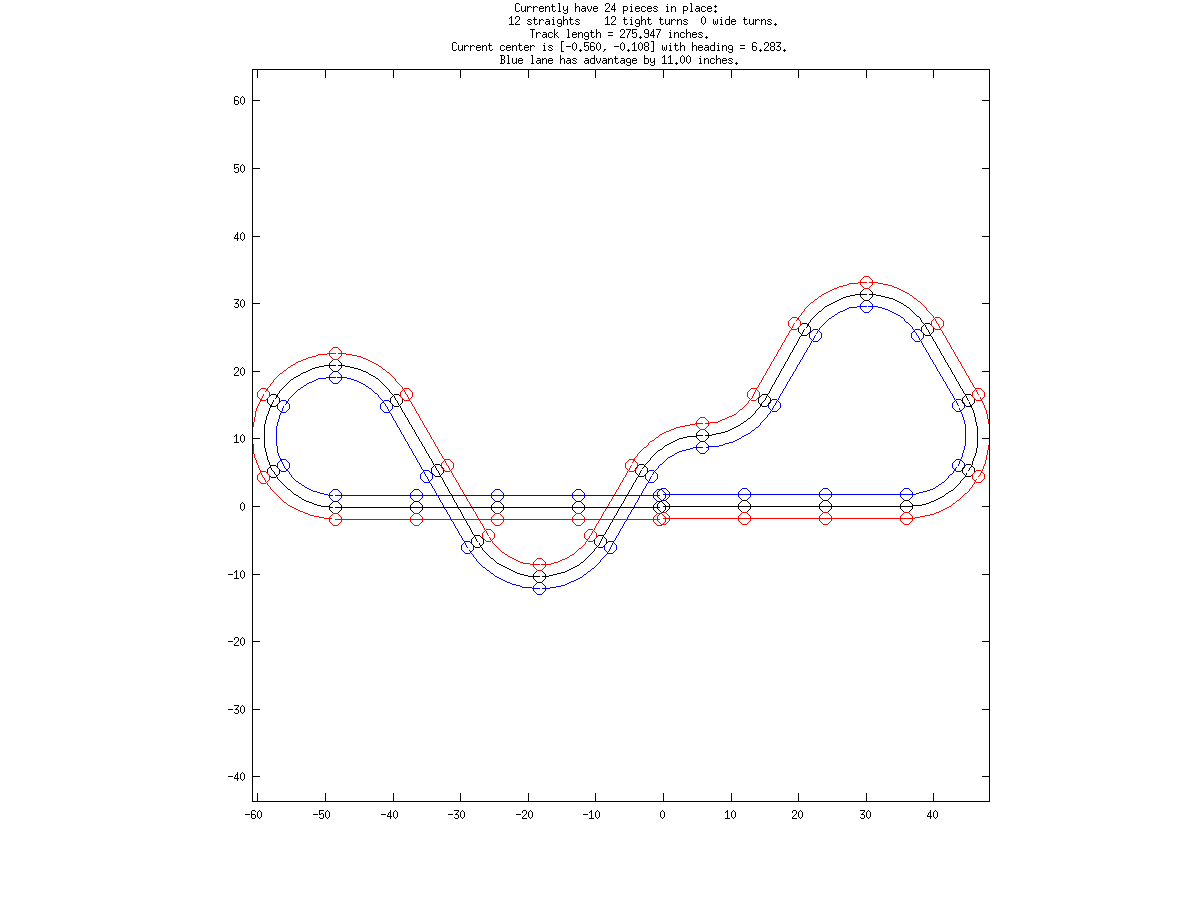
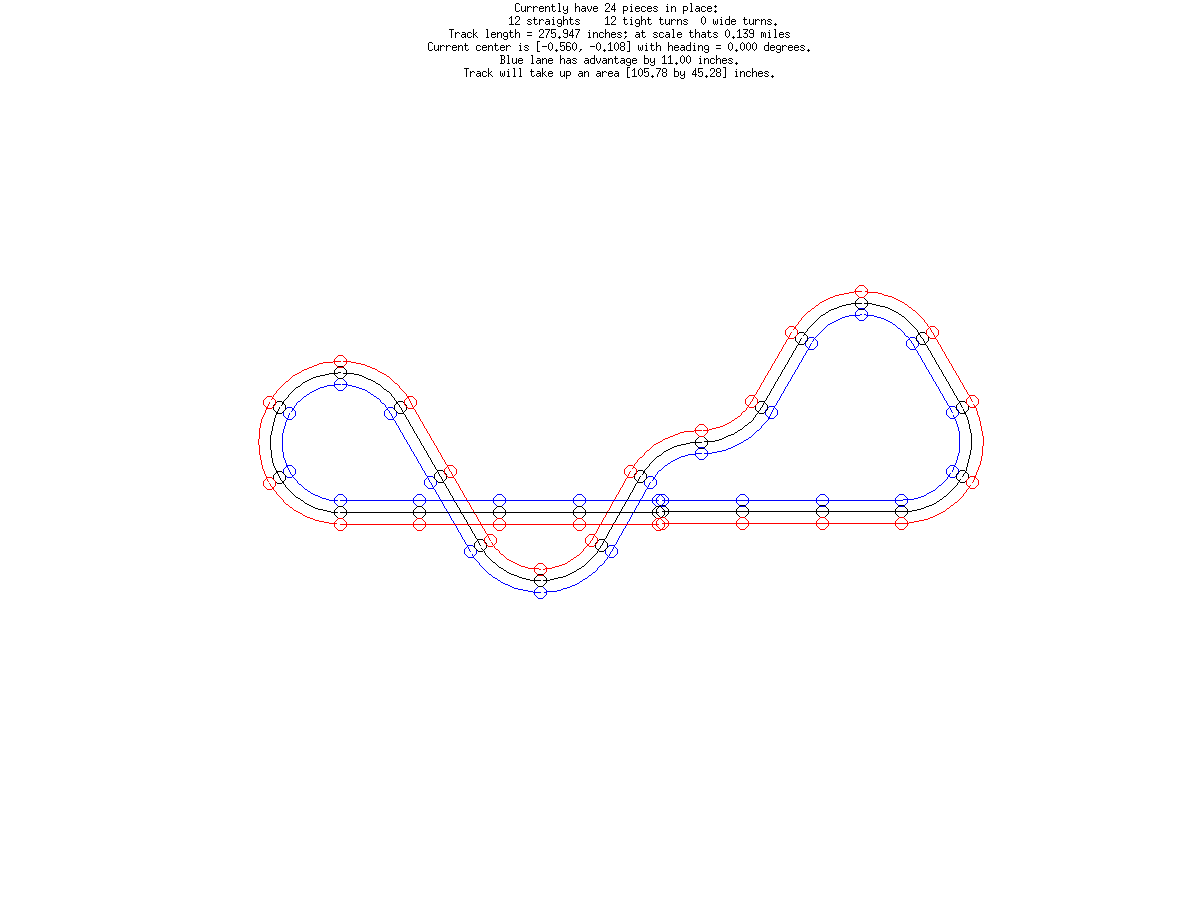
changes figure display to remove axis

diff --git a/matlab/slotCarTrackLayout.m b/matlab/slotCarTrackLayout.m
@@ -91,6 +91,8 @@ track = [0, laneWidth, 0, 0, 0, -laneWidth, 0, 0];
 % initialize figure
 myFig = figure();
 set(myFig, 'Position', [0,0,700,700])
+axis off 
+
 
 while 1~=0
     %% get info on the current end of the track
@@ -101,7 +103,7 @@ while 1~=0
     [numberOfTightTurns, ~] = size([find(track(:,8) == 2); find(track(:,8) ==3)]);
     [numberOfWideTurns, ~]  = size([find(track(:,8) == 4); find(track(:,8) ==5)]);
     centerLineDistance = (numberOfStraights * straightLength) + (numberOfTightTurns * pi*tightDiameter/tightSegments) + (numberOfWideTurns * pi*wideDiameter/wideSegments);
-    centerLineDistanceMiles = centerLineDistance*scaleFactor/12/5280
+    centerLineDistanceMiles = centerLineDistance*scaleFactor/12/5280;
     
     % get left and right lane distances
     [leftDistance, rightDistance] = getLeftRightLaneDistances(track(:,8));
@@ -224,4 +226,6 @@ while 1~=0
  
     % update plot
     updatePlot(track)
+    axis off % i have to do this ever time
+
 end
